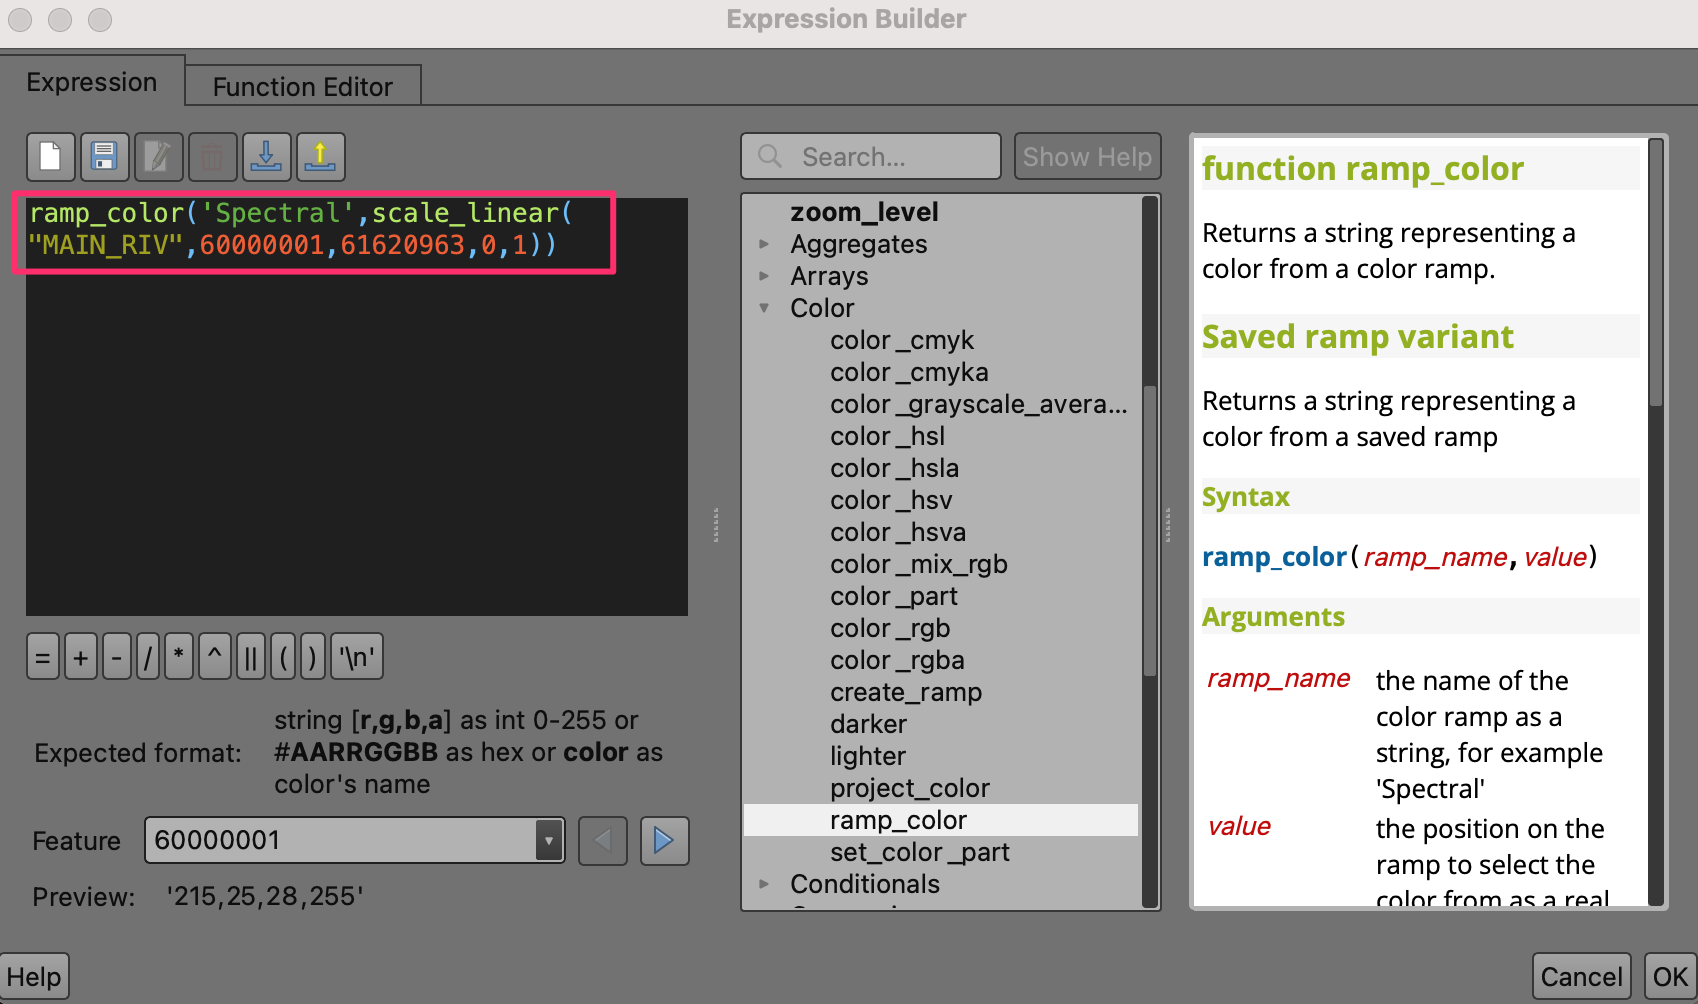
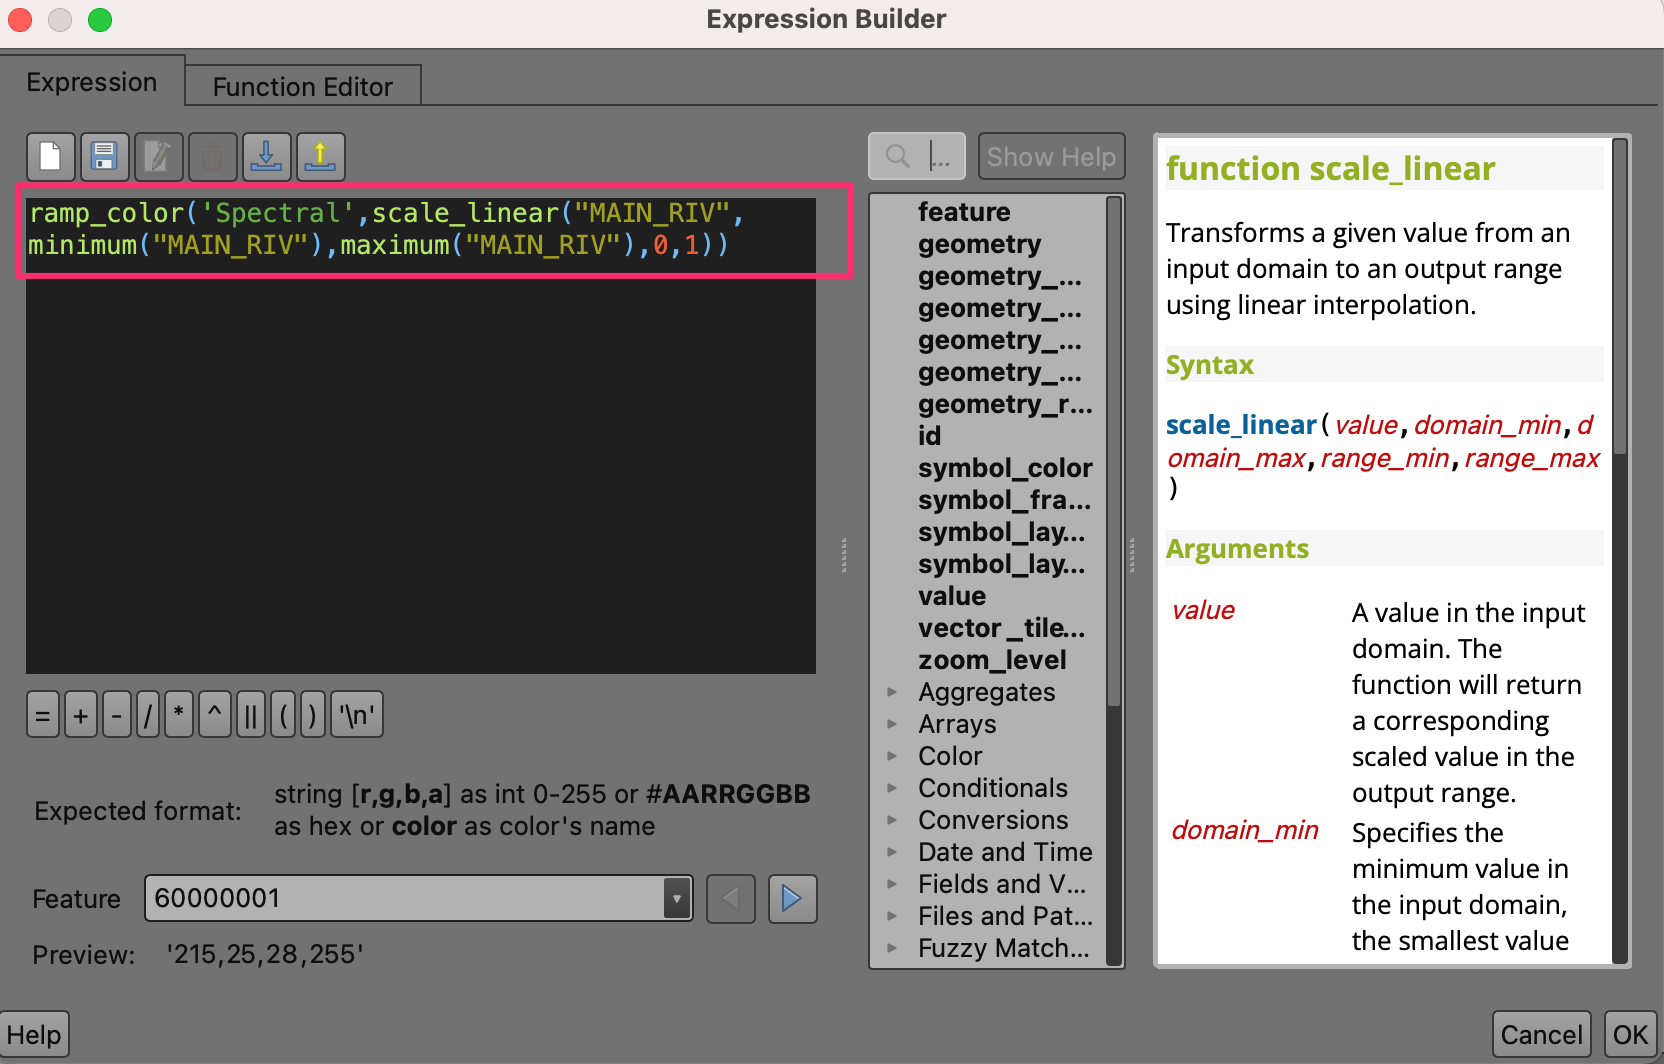
update expression

Changed region(s): [[0.0, 0.0, 1.0, 1.0], [0.0, 0.9572, 0.0625, 1.0]]

diff --git a/source/docs/3/river_styling_expressions.rst b/source/docs/3/river_styling_expressions.rst
@@ -89,12 +89,12 @@ Procedure
 
   .. code-block:: none
 
-     ramp_color('Spectral',scale_linear("MAIN_RIV",60000001,61620963,0,1))
+     ramp_color('Spectral',scale_linear("MAIN_RIV",
+     minimum("MAIN_RIV"),maximum("MAIN_RIV"),0,1))
 
   .. image:: /static/3/river_styling_expressions/images/9.png
     :align: center
  
-
 
 10. At the :guilabel:`Edit Rule` dialog, click on :guilabel:`Data define override` button for :guilabel:`Stroke width` and select :guilabel:`Edit...` on the menu. Enter the following expression. The expression scales line width based on the upland area of each river segment, with a minimum of 0.01 mm to a maximum of 0.1 mm for rivers with an upland area equal to or larger than 10,000 sqkm.
 
